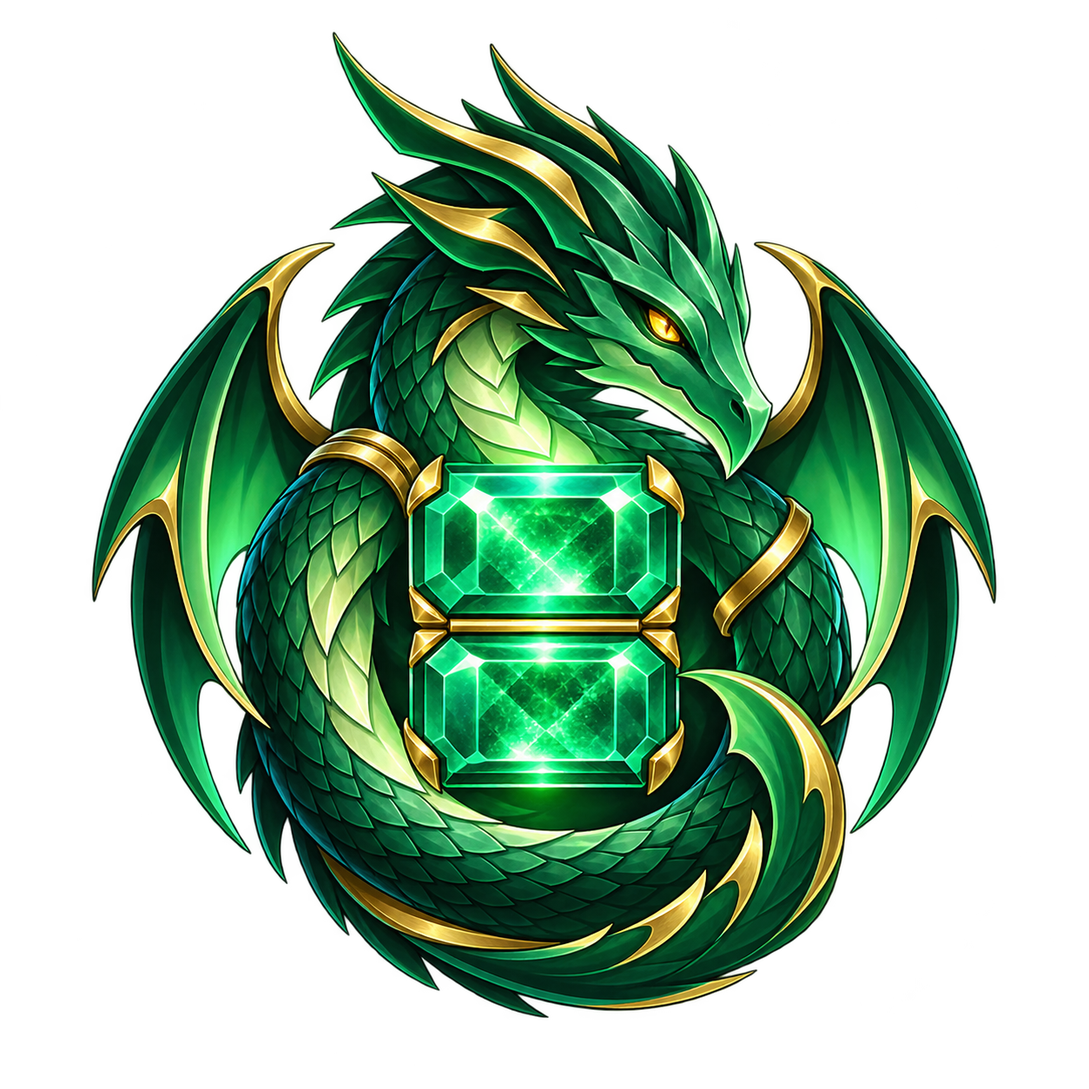
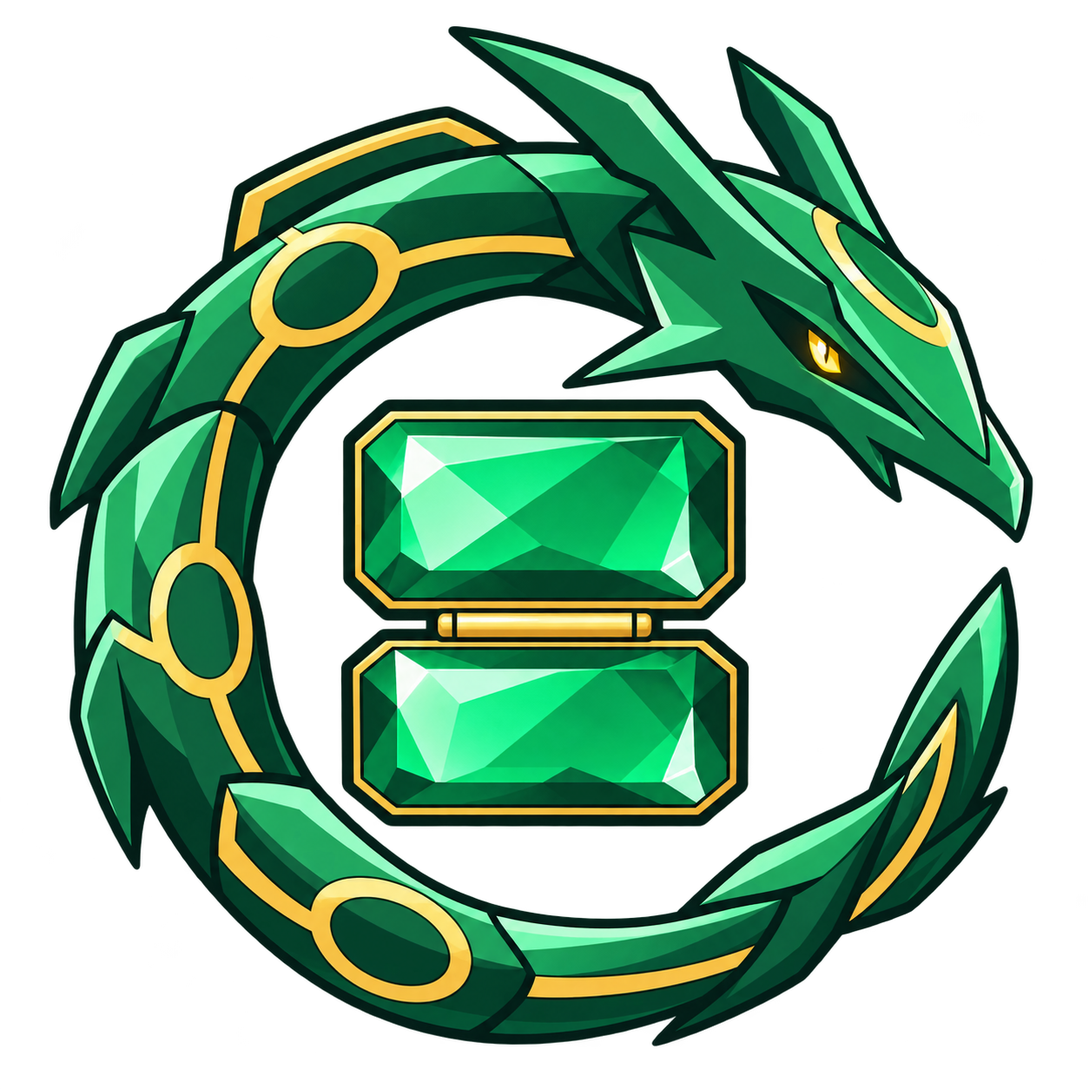
Publish website for v0.1.0-alpha.8

diff --git a/styles.css b/styles.css
@@ -1,13 +1,13 @@
 @font-face{font-family:Pixelify;src:url("assets/fonts/pixelify-sans.ttf") format("truetype");font-style:normal;font-weight:400 700;font-display:swap}
 :root{--ink:#173e32;--muted:#526c5d;--green:#176245;--green-dark:#103f30;--leaf:#cbe4a8;--cream:#f6f4e4;--paper:#fffcf0;--line:#b9cbae;--gold:#f1be63;--pixel:Pixelify,"Courier New",monospace;--body:"Trebuchet MS",Verdana,sans-serif}
 *{box-sizing:border-box}html{scroll-behavior:smooth;scroll-padding-top:100px}body{margin:0;color:var(--ink);background:var(--cream);font-family:var(--body);font-size:16px;line-height:1.65}button,input{font:inherit}a{color:inherit;text-underline-offset:4px}a:hover{text-decoration-thickness:2px}img{max-width:100%;height:auto;display:block}button,a,summary{-webkit-tap-highlight-color:transparent}button{cursor:pointer}button:focus-visible,a:focus-visible,summary:focus-visible{outline:3px solid #c27318;outline-offset:5px}h1,h2,h3,p,figure{margin:0}h1,h2,h3{line-height:1.1}h1,h2{font-family:var(--pixel);font-weight:600;letter-spacing:-.025em}h2{font-size:clamp(2rem,4vw,3.35rem)}h3{font-size:1.08rem;font-weight:700}p+p{margin-top:1rem}.section-wrap{width:min(1180px,calc(100% - 64px));margin-inline:auto}.section-kicker,.eyebrow{font-family:var(--pixel);font-size:14px;font-weight:600;letter-spacing:.11em;line-height:1.4}.section-kicker{color:var(--green);margin-bottom:14px}.sr-only{position:absolute;width:1px;height:1px;padding:0;margin:-1px;overflow:hidden;clip:rect(0,0,0,0);white-space:nowrap;border:0}.skip-link{position:fixed;left:16px;top:-70px;z-index:30;padding:10px 20px;background:var(--gold);border:2px solid var(--ink)}.skip-link:focus{top:12px}
-.site-header{position:relative;z-index:5;background:var(--cream);border-bottom:1px solid var(--line)}.header-inner{width:min(1320px,calc(100% - 64px));margin:auto;min-height:94px;display:flex;align-items:center;justify-content:space-between;gap:24px}.wordmark{display:inline-flex;align-items:center;gap:14px;text-decoration:none;font-family:var(--pixel);font-size:27px;font-weight:700;line-height:.93;letter-spacing:.04em}.wordmark small{display:block;font-size:12px;letter-spacing:.2em;margin-top:7px}.emerald-mark{position:relative;width:31px;height:36px;background:#286b46;border:3px solid var(--ink);clip-path:polygon(25% 0,75% 0,100% 25%,100% 75%,75% 100%,25% 100%,0 75%,0 25%);box-shadow:inset 4px 3px #85cb6d,inset -4px -3px #10402e;flex-shrink:0}.emerald-mark i{position:absolute;inset:6px;background:#abe68d;clip-path:polygon(50% 0,100% 50%,50% 100%,0 50%)}nav{display:flex;align-items:center;gap:29px}nav a{font-size:13px;font-weight:700;text-decoration:none;padding-block:13px}.nav-play{background:var(--ink);color:var(--paper);padding:11px 17px;border:2px solid var(--ink);box-shadow:3px 3px 0 #9eb899}.nav-play span{margin-left:7px}.nav-play:hover{background:var(--green)}
+.site-header{position:relative;z-index:5;background:var(--cream);border-bottom:1px solid var(--line)}.header-inner{width:min(1320px,calc(100% - 64px));margin:auto;min-height:94px;display:flex;align-items:center;justify-content:space-between;gap:24px}.wordmark{display:inline-flex;align-items:center;gap:14px;text-decoration:none;font-family:var(--pixel);font-size:27px;font-weight:700;line-height:.93;letter-spacing:.04em}.wordmark small{display:block;font-size:12px;letter-spacing:.2em;margin-top:7px}.wordmark-icon{width:48px;height:48px;object-fit:contain;flex-shrink:0}nav{display:flex;align-items:center;gap:29px}nav a{font-size:13px;font-weight:700;text-decoration:none;padding-block:13px}.nav-play{background:var(--ink);color:var(--paper);padding:11px 17px;border:2px solid var(--ink);box-shadow:3px 3px 0 #9eb899}.nav-play span{margin-left:7px}.nav-play:hover{background:var(--green)}
 .hero{position:relative;display:grid;grid-template-columns:1.02fr 1fr;gap:14px;align-items:center;min-height:660px;padding-top:56px;padding-bottom:80px}.hero-copy{position:relative;z-index:1;padding-bottom:22px}.hero .eyebrow{display:flex;align-items:center;gap:9px;font-size:12px;letter-spacing:.12em}.status-dot{width:7px;height:7px;background:#33935d;box-shadow:0 0 0 3px #d4e4c8}.hero h1{font-size:clamp(3.8rem,7.5vw,6.3rem);line-height:.91;margin-top:29px;font-weight:600;letter-spacing:-.045em}.hero h1 span{color:var(--green);text-shadow:3px 3px 0 #c9dcb7}.hero-subtitle{font-family:var(--pixel);font-size:clamp(1.55rem,3vw,2.3rem);line-height:1.25;margin-top:20px!important;letter-spacing:-.015em}.hero-description{max-width:410px;font-size:17px;line-height:1.75;margin-top:22px!important;color:var(--muted)}.hero-actions{display:flex;align-items:center;gap:24px;flex-wrap:wrap;margin-top:29px}.button{display:inline-flex;justify-content:center;align-items:center;gap:13px;min-height:53px;padding:13px 23px;font-size:14px;line-height:1.4;text-decoration:none;font-weight:700;border:2px solid var(--ink);transition:transform .15s,box-shadow .15s,background .15s}.button-primary{background:var(--green);color:#fffced;box-shadow:4px 4px 0 var(--ink)}.button:hover{background:#217b53;transform:translate(-1px,-1px);box-shadow:5px 5px 0 var(--ink)}.button:active{transform:translate(3px,3px);box-shadow:1px 1px 0 var(--ink)}.play-arrow{font-size:11px}.text-link{font-size:13px;font-weight:700;text-decoration:none}.text-link span{margin-left:9px}.hero-meta{display:flex;gap:13px;flex-wrap:wrap;margin-top:23px!important;font-size:11px;color:var(--muted)}.hero-meta span+span{border-left:1px solid var(--line);padding-left:13px}.hero-device{position:relative;align-self:center}.device-scene{position:relative;isolation:isolate}.device-scene:before{content:"";position:absolute;inset:5% 0 5% 1%;z-index:-1;background:radial-gradient(circle,#c9dfb5 0 51%,transparent 51.4%),repeating-linear-gradient(0deg,transparent 0 23px,#cfdbc641 24px 25px),repeating-linear-gradient(90deg,transparent 0 23px,#cfdbc641 24px 25px);border-radius:50%}.device-scene img{position:relative;width:100%;filter:drop-shadow(0 20px 12px #1438231c);z-index:1}.device-label{position:absolute;z-index:2;background:var(--paper);padding:7px 11px;border:2px solid var(--ink);font-family:var(--pixel);font-size:12px;letter-spacing:.08em;box-shadow:3px 3px 0 #aec798;white-space:nowrap}.label-top{top:12%;right:0}.label-bottom{bottom:13%;left:0}.scene-spark{position:absolute;font-family:var(--pixel);color:var(--green);font-size:31px}.spark-one{top:6%;left:16%}.spark-two{bottom:17%;right:4%;font-size:46px}.hero-device figcaption{text-align:center;font-size:10px;line-height:1.6;color:var(--muted);margin-top:-7px}.hero-device figcaption a{text-decoration-color:#acbea5}.hero-bottom{position:absolute;bottom:24px;left:0;right:0;display:flex;justify-content:space-between;font-family:var(--pixel);font-size:11px;letter-spacing:.12em;color:#687e64;border-top:1px solid var(--line);padding-top:14px}
 .play-section{background:#e3ebd2;border-block:1px solid #bfceb1;padding:83px 0}.play-grid{display:grid;grid-template-columns: .92fr 1.08fr;gap:74px;align-items:center}.menu-panel{border:3px solid var(--ink);background:var(--paper);box-shadow:6px 6px 0 #b4c7a7}.panel-heading{display:flex;align-items:center;gap:10px;min-height:44px;padding:10px 21px;background:var(--green-dark);color:var(--paper);font-family:var(--pixel);font-size:13px;letter-spacing:.13em;border-bottom:3px solid var(--ink)}.tiny-ball{position:relative;width:15px;height:15px;border:2px solid #f7f4df;border-radius:50%;background:linear-gradient(to bottom,#c5d99a 0 42%,#f7f4df 42% 57%,transparent 57%)}.tiny-ball:after{content:"";position:absolute;inset:4px;border-radius:50%;background:var(--green-dark);border:1px solid #f7f4df}.release-body{padding:29px}.release-topline{display:flex;align-items:center;gap:18px;margin-bottom:23px}.app-icon{width:67px;height:67px;object-fit:contain;background:#d2e8b9;border:2px solid var(--ink);border-radius:12px}.release-topline .eyebrow{font-size:11px;color:var(--muted);margin-bottom:5px}.release-topline h2{font-size:29px;letter-spacing:-.02em;overflow-wrap:anywhere}.release-date{font-size:11px;color:var(--muted);margin-top:7px}.release-body>p{font-size:14px;line-height:1.7}.download-button{display:flex;margin-top:24px;margin-bottom:24px}.access-notice{background:#f8edd0;border-left:3px solid #ae791d;padding:11px 13px;font-size:12px;line-height:1.55}.access-notice strong{font-size:11px}.access-notice p{margin-top:4px}.release-links{display:flex;flex-wrap:wrap;gap:18px;margin-top:19px;font-size:11px}.before-play h2{font-size:42px}.setup-list{list-style:none;padding:0;margin:27px 0 24px;display:grid;gap:21px}.setup-list li{display:flex;gap:17px}.step-number{font-family:var(--pixel);font-size:19px;line-height:1;width:31px;height:31px;background:#c5dba8;border:1px solid #7b9d6a;display:grid;place-items:center;flex-shrink:0;margin-top:1px}.setup-list h3{font-size:15px;margin-bottom:5px}.setup-list p{font-size:13px;line-height:1.75;color:#48614e}.tested-note{font-size:11px;line-height:1.65;color:#49634f;border-top:1px solid #b6c9a9;padding-top:16px}
 .screenshots-section{padding-block:90px 84px}.section-heading{display:flex;align-items:end;justify-content:space-between;gap:45px;margin-bottom:38px}.section-heading>p{max-width:345px;font-size:14px;color:var(--muted);line-height:1.75;padding-bottom:5px}.gallery{display:grid;grid-template-columns:1fr 1fr;gap:30px}.screenshot-card{min-width:0}.screenshot-link{display:block;position:relative;background:#15231e;border:2px solid var(--ink);text-decoration:none;box-shadow:4px 4px 0 #c2cdb2;transition:transform .15s,box-shadow .15s}.screenshot-link:hover{transform:translateY(-3px);box-shadow:4px 7px 0 #b0c4a0}.screen-bar{display:flex;justify-content:space-between;gap:10px;background:var(--paper);color:var(--ink);font-family:var(--pixel);font-size:11px;letter-spacing:.1em;padding:9px 12px;border-bottom:2px solid var(--ink)}.screen-bar span:last-child{color:var(--muted);font-size:10px}.screenshot-link img{width:100%;aspect-ratio:16/9;object-fit:contain}.enlarge-hint{position:absolute;right:10px;bottom:10px;display:grid;place-items:center;width:27px;height:27px;color:var(--ink);background:var(--paper);border:1px solid var(--ink);font-size:20px;line-height:1}.screenshot-card figcaption{padding-top:17px}.screenshot-card h3{font-size:16px;margin-bottom:6px}.screenshot-card p{font-size:12px;color:var(--muted)}.gallery-note{margin-top:29px;font-size:11px;line-height:1.7;color:var(--muted)}
 .controls-section{background:var(--green-dark);color:var(--cream);padding-block:80px;position:relative}.controls-grid{display:grid;grid-template-columns:1fr 1.03fr;gap:110px;align-items:center}.controls-section .section-kicker{color:#c8e1a9}.controls-intro>p:not(.section-kicker){font-size:14px;line-height:1.75;color:#d3dfca;margin-top:22px;max-width:390px}.controller-diagram{display:flex;justify-content:space-between;align-items:center;max-width:290px;height:130px;margin:15px 0 20px}.diagram-dpad{font-family:var(--pixel);font-size:97px;line-height:1;color:#d3e2b8;text-shadow:3px 3px #0a3024}.face-buttons{position:relative;width:111px;height:111px}.face{position:absolute;display:grid;place-items:center;width:36px;height:36px;border:2px solid #d6e4c0;border-radius:50%;font-family:var(--pixel);font-size:22px;box-shadow:2px 3px 0 #082c21}.face.x{left:38px;top:0}.face.y{left:0;top:38px}.face.a{right:0;top:38px;background:#d3e2b8;color:var(--green-dark)}.face.b{left:38px;bottom:0}.pause-callout{padding:15px 0 0;border-top:1px solid #496d58;max-width:360px}.pause-callout>span{font-family:var(--pixel);font-size:10px;letter-spacing:.14em;color:#bbd7a5}.pause-callout>strong{display:block;font-size:19px;margin-top:8px}.pause-callout p{color:#d3dfca;font-size:11px;margin-top:8px}.pause-callout kbd{background:#e0edcd;color:var(--ink);border-color:#97b385;box-shadow:0 2px 0 #082c21}.controls-card{color:var(--ink);box-shadow:6px 6px 0 #082d23;align-self:center}.controls-card .panel-heading{background:#c8dea9;color:var(--ink)}.selection-arrow{font-size:10px}.controls-table{border-collapse:collapse;width:calc(100% - 42px);margin:12px 21px 0;font-size:12px}.controls-table th,.controls-table td{padding:14px 0;border-bottom:1px solid #d4dcc7;text-align:left;vertical-align:middle}.controls-table th{font-weight:700;width:38%;padding-right:15px}.controls-table tr:last-child th,.controls-table tr:last-child td{border-bottom:0}.control-tip{font-size:11px;margin:0 21px;padding:13px 0 21px;color:var(--muted)}kbd{display:inline-block;font-family:var(--pixel);font-size:1.04em;font-weight:600;line-height:1.25;min-width:21px;padding:3px 6px;border:1px solid #97ac8b;background:#e7edd8;box-shadow:0 2px 0 #bccbae;text-align:center;margin:0 1px}.keyboard-guide{border-top:2px solid var(--ink);padding:0 21px;background:#edf1de}.keyboard-guide summary{cursor:pointer;padding:16px 0;font-weight:700;font-size:12px}.keyboard-guide dl{margin:0 0 15px;font-size:11px}.keyboard-guide dl div{display:flex;justify-content:space-between;gap:14px;padding:7px 0}.keyboard-guide dt{font-weight:700}.keyboard-guide dd{margin:0;text-align:right}
 .extras-section{padding-block:84px 78px}.extras-grid{display:grid;grid-template-columns:repeat(4,1fr);gap:17px}.extra-card{background:#edeeda;border:1px solid #c2ccb3;padding:24px 20px 23px;position:relative}.item-symbol{display:grid;place-items:center;width:41px;height:41px;background:#d0e0b1;border:2px solid var(--ink);box-shadow:3px 3px 0 #a4be92;font-family:var(--pixel);font-size:34px;line-height:1;margin-bottom:26px}.sparkle-symbol{background:#f3d690;font-size:25px}.ticket-symbol{background:#d0ddd4}.extra-card h3{font-size:15px;margin-bottom:12px}.extra-card p{font-size:12px;line-height:1.8;color:var(--muted)}.extras-footnote{font-size:11px;color:var(--muted);margin-top:20px}.closing-menu{display:flex;align-items:center;justify-content:space-between;gap:24px;margin-top:68px;padding:28px 34px;background:#d5e5b9}.closing-menu h2{font-size:35px}.closing-menu .section-kicker{font-size:11px;margin-bottom:6px}
-.site-footer{background:#e0e6d0;border-top:1px solid #bfccb0;padding-block:35px}.footer-top{display:flex;justify-content:space-between;align-items:center;gap:22px}.footer-top .wordmark{font-size:21px}.footer-top .wordmark small{font-size:9px}.footer-top .emerald-mark{width:25px;height:30px}.footer-top nav{gap:23px}.footer-top nav a{font-size:11px}.footer-bottom{margin-top:25px;padding-top:21px;border-top:1px solid #bdcdb1;display:flex;justify-content:space-between;gap:40px;font-size:10px;color:var(--muted)}.footer-bottom p{max-width:540px;line-height:1.75;margin:0}.footer-bottom p:first-child{max-width:320px}
+.site-footer{background:#e0e6d0;border-top:1px solid #bfccb0;padding-block:35px}.footer-top{display:flex;justify-content:space-between;align-items:center;gap:22px}.footer-top .wordmark{font-size:21px}.footer-top .wordmark small{font-size:9px}.footer-top .wordmark-icon{width:40px;height:40px}.footer-top nav{gap:23px}.footer-top nav a{font-size:11px}.footer-bottom{margin-top:25px;padding-top:21px;border-top:1px solid #bdcdb1;display:flex;justify-content:space-between;gap:40px;font-size:10px;color:var(--muted)}.footer-bottom p{max-width:540px;line-height:1.75;margin:0}.footer-bottom p:first-child{max-width:320px}
 body.viewing-screenshot{overflow:hidden}.lightbox{padding:42px 20px 17px;border:2px solid #c9dfb5;background:#0e251e;color:var(--cream);width:min(1200px,95vw);max-height:94vh;overflow:auto;box-shadow:8px 8px 0 #091a15}.lightbox::backdrop{background:#04160fea}.lightbox>img{width:100%;max-height:71vh;object-fit:contain}.lightbox-close{position:absolute;top:5px;right:8px;width:35px;height:35px;background:transparent;color:var(--cream);border:0;font-size:28px;line-height:1}.lightbox-bottom{display:flex;align-items:center;justify-content:space-between;gap:17px;margin-top:13px}.lightbox-bottom p{font-size:12px;text-align:center;line-height:1.55;max-width:700px}.lightbox-bottom button{background:#d5e5b9;color:var(--ink);border:1px solid #aec695;width:39px;height:37px;flex-shrink:0;font-size:21px}
 .credits-page{max-width:850px;padding-block:65px 85px}.credits-page>h1{font-size:52px;margin-bottom:35px}.prose-panel{padding:28px;margin-bottom:28px}.prose-panel h2{font-size:28px;margin-bottom:20px}.prose-panel p,.prose-panel li{font-size:14px;line-height:1.8}.prose-panel ul{padding-left:20px}.prose-panel li+li{margin-top:9px}
 @media(min-width:1100px){.hero-device{width:calc(100% + 50px);margin-left:-10px}.device-label{font-size:12px}.label-top{right:1%}}

diff --git a/index.html b/index.html
@@ -6,6 +6,14 @@
   <meta name="theme-color" content="#164d3b">
   <meta name="description" content="Pokémon Emerald for the AYN Thor. Explore Hoenn on the top display, use touch menus below, and play with the handheld’s built-in controls.">
   <title>Pokémon Emerald Dual Screen for AYN Thor</title>
+  <link rel="icon" href="assets/app-icon.png" type="image/png">
+  <meta property="og:type" content="website">
+  <meta property="og:title" content="Pokémon Emerald Dual Screen for AYN Thor">
+  <meta property="og:description" content="Explore Hoenn above, touch your map and menus below. An unofficial Android port built for AYN Thor.">
+  <meta property="og:url" content="https://psspssr.github.io/emerald-dual-screen-site/">
+  <meta property="og:image" content="https://psspssr.github.io/emerald-dual-screen-site/assets/thor-presentation.png">
+  <meta property="og:image:alt" content="Illustrative AYN Thor mockup showing Emerald on two screens">
+  <meta name="twitter:card" content="summary_large_image">
   <link rel="stylesheet" href="styles.css">
   <link rel="preload" href="assets/fonts/pixelify-sans.ttf" as="font" type="font/ttf" crossorigin>
   <script src="site.js" defer></script>
@@ -15,7 +23,7 @@
   <header class="site-header">
     <div class="header-inner">
       <a class="wordmark" href="./" aria-label="Emerald Dual Screen home">
-        <span class="emerald-mark" aria-hidden="true"><i></i></span>
+        <img class="wordmark-icon" src="assets/app-icon.png" width="48" height="48" alt="">
         <span>EMERALD<small>DUAL SCREEN</small></span>
       </a>
       <nav aria-label="Main navigation">
@@ -32,7 +40,7 @@
         <p class="eyebrow"><span class="status-dot" aria-hidden="true"></span> HOENN, MEET YOUR AYN THOR</p>
         <h1 id="hero-title">Pokémon<br><span>Emerald.</span></h1>
         <p class="hero-subtitle">Made for AYN Thor.</p>
-        <p class="hero-description">Your Thor’s two screens, put to work. Explore Hoenn up top, keep your map and touch menus below, and play with the built-in controls.</p>
+        <p class="hero-description">Explore Hoenn on the top screen, keep your map and touch menus below, and play with your Thor’s built-in controls.</p>
         <div class="hero-actions">
           <a class="button button-primary" href="#play"><span class="play-arrow" aria-hidden="true">▶</span> Get the Thor preview</a>
           <a class="text-link" href="#screens">Take a look <span aria-hidden="true">↓</span></a>
@@ -47,7 +55,7 @@
           <img src="assets/thor-presentation.png" width="1254" height="1254" alt="Presentation mockup of a black AYN Thor with Oldale Town above and the Hoenn touch map below" fetchpriority="high">
           <span class="device-label label-bottom">TOUCH MENUS BELOW</span>
         </div>
-        <figcaption>Presentation mockup using emulator captures.<br><a href="credits.html">DROIX device reference · image credits</a></figcaption>
+        <figcaption>Illustrative device mockup.</figcaption>
       </figure>
       <div class="hero-bottom"><span>TOP · 1920 × 1080</span><span>TOUCH · 1240 × 1080</span><span>DESIGNED FOR AYN THOR</span></div>
     </section>
@@ -61,7 +69,7 @@
               <img class="app-icon" src="assets/app-icon.png" width="1254" height="1254" alt="" loading="lazy">
               <div><p class="eyebrow">Android preview</p><h2 id="play-title">0.1.0-alpha.8</h2><p class="release-date">4 Oct 2026 · 26.5 MiB · ARMv7</p></div>
             </div>
-            <p>Install the Android APK on your Thor and start playing. Matching game data is included.</p>
+            <p>Install the signed Android APK on a compatible Thor. Matching game data is included.</p>
             <a class="button button-primary download-button" href="https://github.com/psspssr/pokeemerald-3Ds-dualscreen-thor/releases/download/v0.1.0-alpha.8/emerald-thor-0.1.0-alpha.8-armeabi-v7a.apk"><span aria-hidden="true">↓</span> Download Android APK</a>
             <div class="access-notice"><strong>Private preview · GitHub access required</strong><p>Downloads are in a private GitHub repository. Sign in with an account that has repository access.</p></div>
             <div class="release-links"><a href="https://github.com/psspssr/pokeemerald-3Ds-dualscreen-thor/releases/tag/v0.1.0-alpha.8">Release notes</a><a href="https://github.com/psspssr/pokeemerald-3Ds-dualscreen-thor/releases/download/v0.1.0-alpha.8/SHA256SUMS">Checksums</a><a href="https://github.com/psspssr/pokeemerald-3Ds-dualscreen-thor/releases/download/v0.1.0-alpha.8/build-info.json">Build details</a></div>
@@ -69,13 +77,13 @@
         </div>
         <div class="before-play">
           <p class="section-kicker">BEFORE YOU SET OFF</p>
-          <h2>Your Thor.<br>Your next adventure.</h2>
+          <h2>Set up.<br>Head to Hoenn.</h2>
           <ol class="setup-list">
             <li><span class="step-number">01</span><div><h3>Check your Thor’s firmware</h3><p>Android 9 or newer, OpenGL ES 3.0, and <strong>32-bit ARM app support</strong>. Firmware that only runs 64-bit apps cannot run this preview.</p></div></li>
-            <li><span class="step-number">02</span><div><h3>Bring your save</h3><p>Import an Emerald <code>.sav</code> in Settings, then restart. Export it to return to a GBA emulator. Save states are a different format.</p></div></li>
-            <li><span class="step-number">03</span><div><h3>Make both screens yours</h3><p>Both Thor panels fill by default while keeping game content visible. Keep the adventure above and touch menus below, or choose <strong>Fit</strong> for original proportions.</p></div></li>
+            <li><span class="step-number">02</span><div><h3>Bring your save</h3><p>Import an Emerald <code>.sav</code> in Settings, then restart. Export it to continue in a GBA emulator. Save normally in-game; save states are not supported.</p></div></li>
+            <li><span class="step-number">03</span><div><h3>Set your screen layout</h3><p>Both Thor panels fill by default, with the adventure above and touch menus below. Choose <strong>Fit</strong> to preserve the original proportions.</p></div></li>
           </ol>
-          <p class="tested-note">Also supports compatible Android phones and other handhelds. Builds are tested in emulators; Thor hardware and sustained performance validation remain ongoing. <a href="https://github.com/psspssr/pokeemerald-3Ds-dualscreen-thor/blob/main/docs/VALIDATION.md">See the test report ↗</a></p>
+          <p class="tested-note">Compatible Android phones and other handhelds are supported too. Tested in emulators; full Thor hardware validation and sustained performance testing remain open. <a href="https://github.com/psspssr/pokeemerald-3Ds-dualscreen-thor/blob/main/docs/VALIDATION.md">Test results and limits ↗</a></p>
         </div>
       </div>
     </section>
@@ -83,7 +91,7 @@
     <section id="screens" class="section-wrap screenshots-section" aria-labelledby="screens-title">
       <div class="section-heading">
         <div><p class="section-kicker">A VIEW OF HOENN</p><h2 id="screens-title">Familiar places.<br>A different perspective.</h2></div>
-        <p>Keep classic 2D sharp, or enable voxel scenery and battles in the game’s OPTION menu. Optional voxel anti-aliasing is in Settings.</p>
+        <p>Classic 2D stays sharp by default. Enable voxel scenery and battles in the game’s OPTION menu, with optional voxel anti-aliasing in Settings.</p>
       </div>
       <div class="gallery">
         <figure class="screenshot-card">
@@ -92,7 +100,7 @@
             <img src="assets/classic-town.png" width="1920" height="1080" alt="Classic 2D Oldale Town and Pokémon Center alongside the bottom-screen Hoenn map" loading="lazy" decoding="async">
             <span class="enlarge-hint" aria-hidden="true">+</span>
           </a>
-          <figcaption><h3>The original 2D look</h3><p>The world you remember, with your next stop always in view.</p></figcaption>
+          <figcaption><h3>The original 2D look</h3><p>Classic Hoenn, with the map and touch menu beside it.</p></figcaption>
         </figure>
         <figure class="screenshot-card">
           <a class="screenshot-link" href="assets/voxel-world.png" data-shot data-caption="The optional voxel overworld in Littleroot Town. Actual ARM Android emulator capture." aria-label="Enlarge the voxel overworld screenshot">
@@ -116,10 +124,10 @@
             <img src="assets/classic-route.png" width="1920" height="1080" alt="Original 2D Route 101 with tall grass, trees, ledges and the touch menu" loading="lazy" decoding="async">
             <span class="enlarge-hint" aria-hidden="true">+</span>
           </a>
-          <figcaption><h3>Room for the journey</h3><p>The adventure on your Thor’s top display. Map and touch menus within reach below.</p></figcaption>
+          <figcaption><h3>Room for the journey</h3><p>Explore Hoenn while keeping the map within reach.</p></figcaption>
         </figure>
       </div>
-      <p class="gallery-note">Unmodified captures from actual ARM Android builds, shown in the combined landscape layout. <a href="assets/portrait-controls.png">See the portrait phone layout</a> · <a href="credits.html">Capture provenance</a></p>
+      <p class="gallery-note">Android emulator screenshots in the combined landscape layout; some show earlier previews. <a href="assets/portrait-controls.png">See the portrait phone layout</a>.</p>
     </section>
 
     <section id="controls" class="controls-section" aria-labelledby="controls-title">
@@ -154,19 +162,19 @@
     </section>
 
     <section id="extras" class="section-wrap extras-section" aria-labelledby="extras-title">
-      <div class="section-heading"><div><p class="section-kicker">A FEW THINGS IN YOUR BAG</p><h2 id="extras-title">Your adventure.<br>Your options.</h2></div><p>Quality-of-life options start off. Turn on only what you want in Settings → Gameplay.</p></div>
+      <div class="section-heading"><div><p class="section-kicker">OPTIONAL EXTRAS</p><h2 id="extras-title">Your adventure.<br>Your options.</h2></div><p>Quality-of-life options start off. Turn on what you want in Settings → Gameplay.</p></div>
       <div class="extras-grid">
         <article class="extra-card"><span class="item-symbol" aria-hidden="true">»</span><h3>Set your pace</h3><p>Optional 2×, 4× or 8× fast-forward and shared experience for eligible benched Pokémon.</p></article>
-        <article class="extra-card"><span class="item-symbol sparkle-symbol" aria-hidden="true">✦</span><h3>A little extra sparkle</h3><p>Five shiny-odds choices, from the original rate to about 1 in 128. Optional confirmation before fleeing a shiny.</p></article>
+        <article class="extra-card"><span class="item-symbol sparkle-symbol" aria-hidden="true">✦</span><h3>Shiny encounters</h3><p>Five shiny-odds choices, from the original rate to about 1 in 128. Optional confirmation before fleeing a shiny.</p></article>
         <article class="extra-card"><span class="item-symbol" aria-hidden="true">▤</span><h3>Keep your progress</h3><p>Portable Emerald saves and an optional rotation of five completed in-game save backups.</p></article>
         <article class="extra-card"><span class="item-symbol ticket-symbol" aria-hidden="true">◇</span><h3>Choose an event</h3><p>Event-island tickets, offline Jirachi/Celebi gifts and missing Regi dolls. Activate individually, then save in-game.</p></article>
       </div>
-      <p class="extras-footnote">Shiny targets can be reduced by personality constraints. Mystery events retain normal story requirements. <a href="https://github.com/psspssr/pokeemerald-3Ds-dualscreen-thor/blob/main/docs/QUALITY_OF_LIFE.md">Quality of life</a> · <a href="https://github.com/psspssr/pokeemerald-3Ds-dualscreen-thor/blob/main/docs/MYSTERY_EVENTS.md">Mystery events</a></p>
+      <p class="extras-footnote">Boosted shiny odds are approximate. Mystery events retain normal story requirements. <a href="https://github.com/psspssr/pokeemerald-3Ds-dualscreen-thor/blob/main/docs/QUALITY_OF_LIFE.md">Quality of life</a> · <a href="https://github.com/psspssr/pokeemerald-3Ds-dualscreen-thor/blob/main/docs/MYSTERY_EVENTS.md">Mystery events</a></p>
       <div class="closing-menu menu-panel"><div><p class="section-kicker">YOUR SAVE FILE IS WAITING</p><h2>Ready to head out?</h2></div><a class="button button-primary" href="#play">Get the preview <span aria-hidden="true">→</span></a></div>
     </section>
   </main>
   <footer class="site-footer">
-    <div class="section-wrap footer-top"><a class="wordmark" href="./"><span class="emerald-mark" aria-hidden="true"><i></i></span><span>EMERALD<small>DUAL SCREEN</small></span></a><nav aria-label="Project links"><a href="https://github.com/psspssr/pokeemerald-3Ds-dualscreen-thor">GitHub</a><a href="https://github.com/psspssr/pokeemerald-3Ds-dualscreen-thor/blob/main/docs/BUILDING.md">Build guide</a><a href="credits.html">Credits & captures</a></nav></div>
+    <div class="section-wrap footer-top"><a class="wordmark" href="./"><img class="wordmark-icon" src="assets/app-icon.png" width="48" height="48" alt=""><span>EMERALD<small>DUAL SCREEN</small></span></a><nav aria-label="Project links"><a href="https://github.com/psspssr/pokeemerald-3Ds-dualscreen-thor">GitHub</a><a href="https://github.com/psspssr/pokeemerald-3Ds-dualscreen-thor/blob/main/docs/BUILDING.md">Build guide</a><a href="credits.html">Credits & notices</a></nav></div>
     <div class="section-wrap footer-bottom"><p>Android port of <a href="https://github.com/ZallaxDev/pokeemerald-3Ds-dualscreen">ZallaxDev's 3DS project</a>, built on <a href="https://github.com/pret/pokeemerald">pret/pokeemerald</a>.</p><p>Unofficial fan project, unaffiliated with Nintendo, Game Freak, Creatures, The Pokémon Company or AYN. Provided “as is” and “as available,” without warranties where permitted by law. No support or services are offered or promised. <a href="credits.html#disclaimer">Full notice</a>.</p></div>
   </footer>
   <dialog id="screenshot-dialog" class="lightbox" aria-label="Game screenshot viewer" aria-describedby="lightbox-caption">

diff --git a/credits.html b/credits.html
@@ -1,24 +1,21 @@
 <!doctype html>
 <html lang="en">
-<head><meta charset="utf-8"><meta name="viewport" content="width=device-width, initial-scale=1"><meta name="theme-color" content="#164d3b"><title>Credits & captures — Emerald Dual Screen</title><link rel="stylesheet" href="styles.css"></head>
+<head><meta charset="utf-8"><meta name="viewport" content="width=device-width, initial-scale=1"><meta name="theme-color" content="#164d3b"><title>Credits & notices — Emerald Dual Screen</title><link rel="icon" href="assets/app-icon.png" type="image/png"><link rel="stylesheet" href="styles.css"></head>
 <body>
   <a class="skip-link" href="#main">Skip to content</a>
-  <header class="site-header"><div class="header-inner"><a class="wordmark" href="./"><span class="emerald-mark" aria-hidden="true"><i></i></span><span>EMERALD<small>DUAL SCREEN</small></span></a><nav aria-label="Navigation"><a href="./">← Back to the adventure</a></nav></div></header>
+  <header class="site-header"><div class="header-inner"><a class="wordmark" href="./"><img class="wordmark-icon" src="assets/app-icon.png" width="48" height="48" alt=""><span>EMERALD<small>DUAL SCREEN</small></span></a><nav aria-label="Navigation"><a href="./">← Back to the adventure</a></nav></div></header>
   <main id="main" class="section-wrap credits-page">
-    <p class="section-kicker">THE PEOPLE & PICTURES BEHIND THE PORT</p>
-    <h1>Credits & captures</h1>
+    <p class="section-kicker">PROJECT CREDITS</p>
+    <h1>Credits & notices</h1>
     <section class="menu-panel prose-panel"><h2>The game and port</h2>
       <ul><li><a href="https://github.com/ZallaxDev/pokeemerald-3Ds-dualscreen">ZallaxDev and contributors</a> created the upstream 3DS port and touch interface.</li><li><a href="https://github.com/pret/pokeemerald">pret/pokeemerald</a> provides the Emerald decompilation.</li><li>Voxel logic was adapted upstream from gradenGnostic/pokeemerald-multiplatform.</li><li>devkitPro provides the libctru, Citro3D and Citro2D interfaces and credited components.</li></ul>
       <p>Original Android port code is MIT licensed. Imported components retain their own terms. The code licence does not grant rights to Pokémon game assets. <a href="https://github.com/psspssr/pokeemerald-3Ds-dualscreen-thor/blob/main/NOTICE.md">Full project notices</a>.</p>
     </section>
-    <section class="menu-panel prose-panel"><h2>What the images show</h2>
-      <p>The Thor hero is an <strong>AI-edited presentation mockup</strong>, using real emulator captures for its screens. It is not a photograph of this game running on a physical Thor and is not hardware-test evidence.</p>
-      <p>Device reference: <a href="https://droix.net/wp-content/uploads/2025/08/AYN-THOR-BLACK-LISTING-DONE-01.png">DROIX-hosted AYN Thor product image</a>. <a href="https://github.com/psspssr/pokeemerald-3Ds-dualscreen-thor/blob/main/docs/images/thor-presentation.json">Complete mockup provenance</a>.</p>
-      <p>Gallery images are unmodified screenshots of the actual ARM Android game in an emulator. Classic Oldale Town and Route 101 captures use the signed alpha.3 build; the earlier voxel, battle and phone images have their own recorded build identities. Normal gameplay inputs staged these gallery scenes, without save/progression or pixel edits.</p>
-      <p>The gallery uses a combined landscape window; the portrait image shows the phone layout. Physical Thor testing remains open. <a href="https://github.com/psspssr/pokeemerald-3Ds-dualscreen-thor/blob/main/docs/images/README.md">Capture records and checksums</a> · <a href="https://github.com/psspssr/pokeemerald-3Ds-dualscreen-thor/blob/main/docs/VALIDATION.md">Validation report</a>.</p>
-      <p>The emerald-dragon app icon is generated artwork. <a href="https://github.com/psspssr/pokeemerald-3Ds-dualscreen-thor/blob/main/docs/ICON.md">Icon provenance</a>.</p>
+    <section class="menu-panel prose-panel"><h2>Images</h2>
+      <p>The device view is an illustrative mockup. Gameplay and settings images are emulator captures; some show earlier previews. Full physical Thor validation remains open.</p>
+      <p><a href="https://github.com/psspssr/pokeemerald-3Ds-dualscreen-thor/blob/main/docs/images/README.md">Screenshot notes</a> · <a href="https://github.com/psspssr/pokeemerald-3Ds-dualscreen-thor/blob/main/docs/VALIDATION.md">Test results and limits</a>.</p>
     </section>
-    <section class="menu-panel prose-panel"><h2>Website type and artwork</h2><p>Pixelify Sans is by Stefie Justprince, distributed under the <a href="assets/fonts/OFL.txt">SIL Open Font License 1.1</a>. <a href="assets/fonts/SOURCE.txt">Pinned font source</a>. Other decorative shapes are drawn in CSS.</p><p>Pokémon imagery and trademarks remain the property of their respective rights holders. This unofficial fan project is not affiliated with Nintendo, Game Freak, Creatures or The Pokémon Company.</p></section>
+    <section class="menu-panel prose-panel"><h2>Typography</h2><p>Pixelify Sans by Stefie Justprince is distributed under the <a href="assets/fonts/OFL.txt">SIL Open Font License 1.1</a>.</p></section>
     <section id="disclaimer" class="menu-panel prose-panel"><h2>Independent project · no support</h2>
       <p>This is an independent, unofficial fan project. It is not affiliated with, endorsed, sponsored or supported by Nintendo, Game Freak, Creatures, The Pokémon Company, AYN or other hardware vendors. Credits and upstream links identify sources; they do not imply endorsement or support for this Android port. All names, trademarks, logos and game assets belong to their respective owners.</p>
       <p><strong>Provided “as is” and “as available,” without warranties or guarantees of any kind, to the extent permitted by applicable law. No technical support or other services are offered or promised.</strong> There is no commitment to maintenance, updates, fixes, compatibility or continued availability. Use at your own risk and keep backups of your saves. The <a href="https://github.com/psspssr/pokeemerald-3Ds-dualscreen-thor/blob/main/LICENSE">licence's warranty disclaimer and limitation of liability</a> apply within its stated scope; third-party licences and mandatory legal rights remain unaffected.</p>

diff --git a/README.md b/README.md
@@ -6,4 +6,4 @@ This repository contains only the generated public website. The game repository 
 
 Website source and publishing instructions are maintained in [psspssr/pokeemerald-3Ds-dualscreen-thor](https://github.com/psspssr/pokeemerald-3Ds-dualscreen-thor/tree/dev/site). Edit that source; the publishing workflow replaces generated files here.
 
-Original website code uses the MIT licence. Fonts retain SIL OFL 1.1; game images, trademarks and device imagery retain their respective owners’ rights. See credits.html for provenance and the as-is/no-support notice.
+Original website code uses the MIT licence. Fonts retain SIL OFL 1.1; game images, trademarks and device imagery retain their respective owners’ rights. See credits.html for credits and the as-is/no-support notice.
